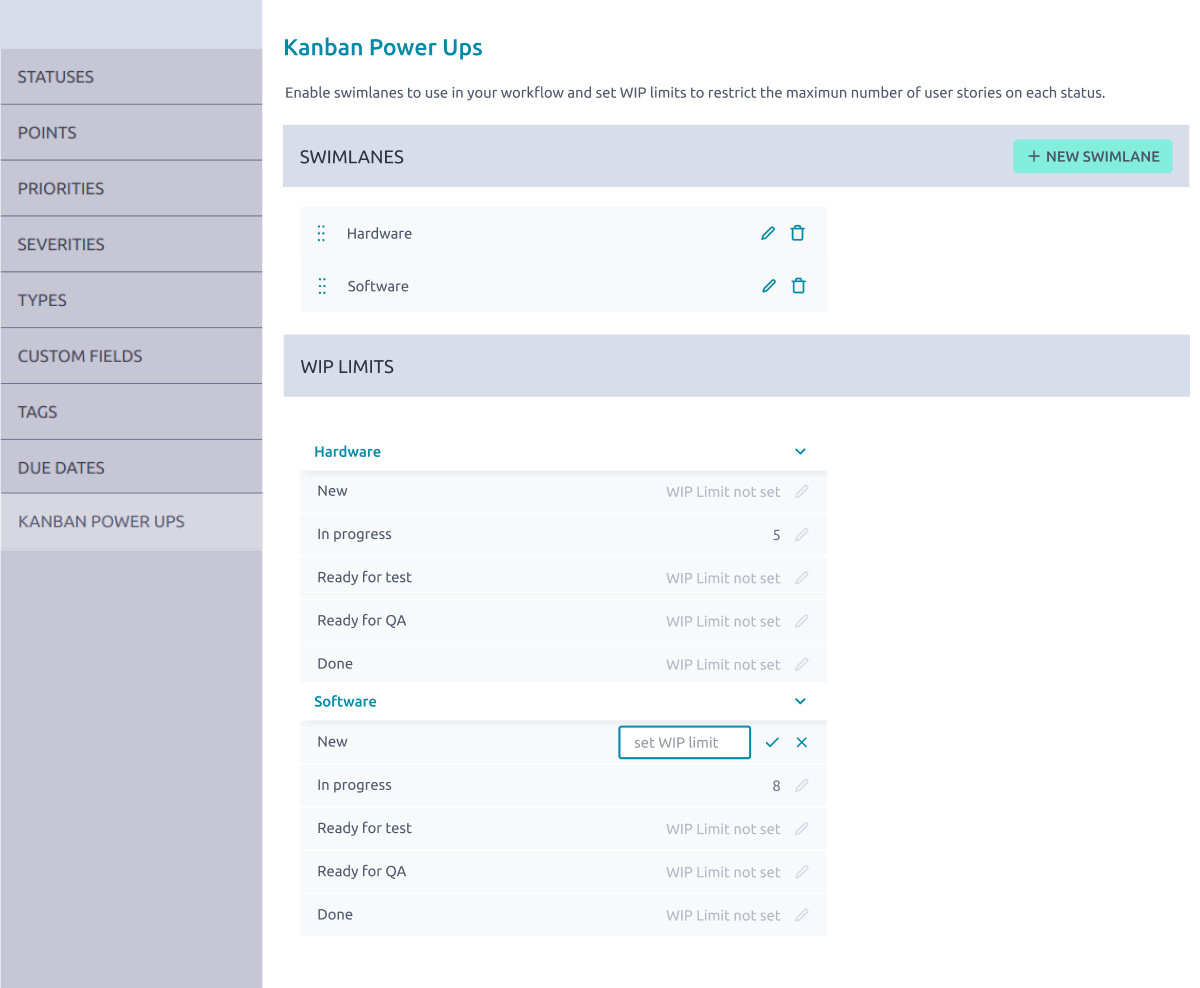
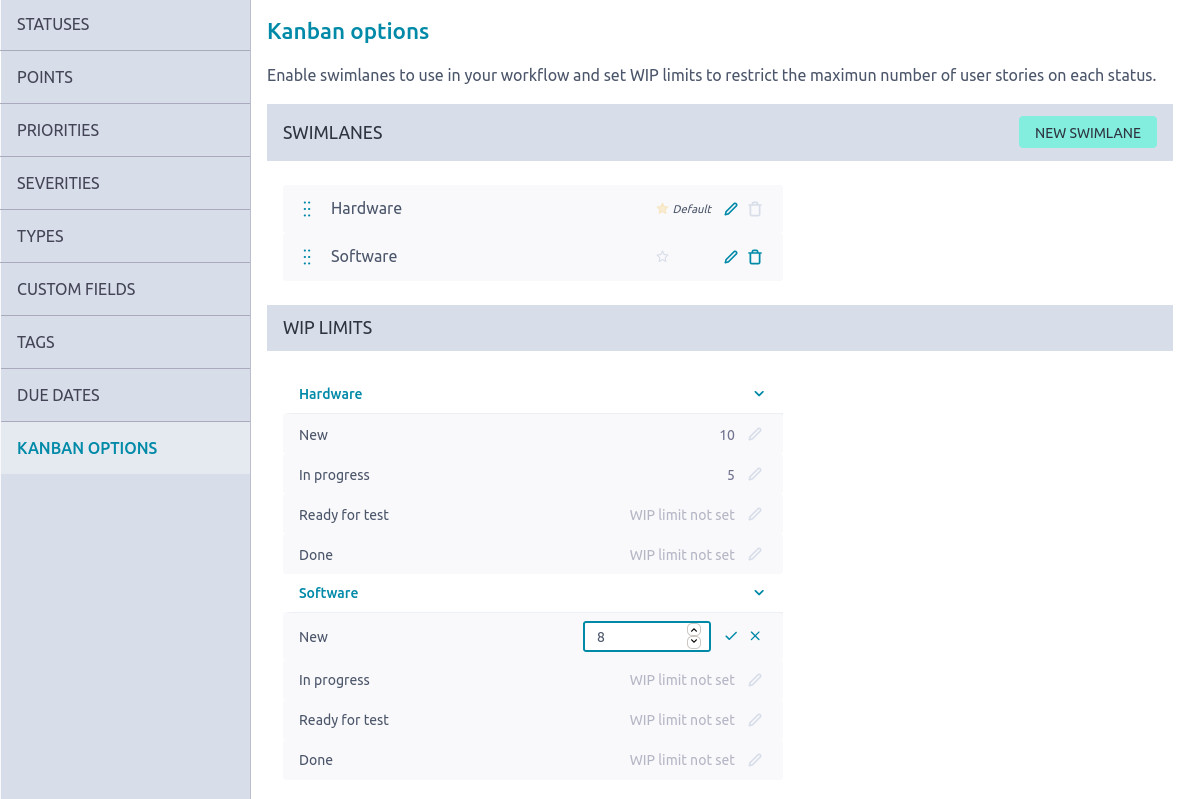
(fix) typo and image in kanban article

diff --git a/content/features/5minkanbanoverview.md b/content/features/5minkanbanoverview.md
@@ -35,7 +35,7 @@ Finally, it's a good practice to define the *Work in progress Limit* or **WIP Li
 
 {{< figure src="/images/KANBAN_test12.jpg" caption="Project settings related to **WIP Limits**" alt="Project settings related to **WIP Limits**" width="100%" class="articlefigure" >}}
 
-You can adjust Kanban **WIP Limits** under SETTINGS > ATTRIBUTES > KANBAN POWER UPS.
+You can adjust Kanban **WIP Limits** under SETTINGS > ATTRIBUTES > KANBAN OPTIONS.
 
 This is the basic setup. You can now go to the Kanban module and start creating work items and moving them around as they progress in their lifecycle.
 
@@ -43,7 +43,7 @@ This is the basic setup. You can now go to the Kanban module and start creating 
 
 Some teams require advanced features for their Kanban boards. One of the most sought after is the Kanban swimlane. It consists on an independant section that can contain a separate set of work items. Taiga allows you to create as many Kanban swimlanes as you need, effectively distributing your work across different major categorizations. Some example of swimlanes usage are sub-teams, project modules, different priorities, etc.
 
-You can manage Kanban swimlanes under SETTINGS > ATTRIBUTES > KANBAN POWER UPS.
+You can manage Kanban swimlanes under SETTINGS > ATTRIBUTES > KANBAN OPTIONS.
 
 {{< figure src="/images/KANBAN_test05.jpg" caption="Kanban swimlanes configuration" alt="Kanban swimlanes configuration" width="100%" class="articlefigure" >}}
 

diff --git a/CHANGELOG.md b/CHANGELOG.md
@@ -4,6 +4,7 @@
 
 - Improve 30min-setup
 - Add minimum version for docker and docker-compose
+- Fix typo and image in kanban article
 
 ## 6.0.5 (2021-03-09)
 
